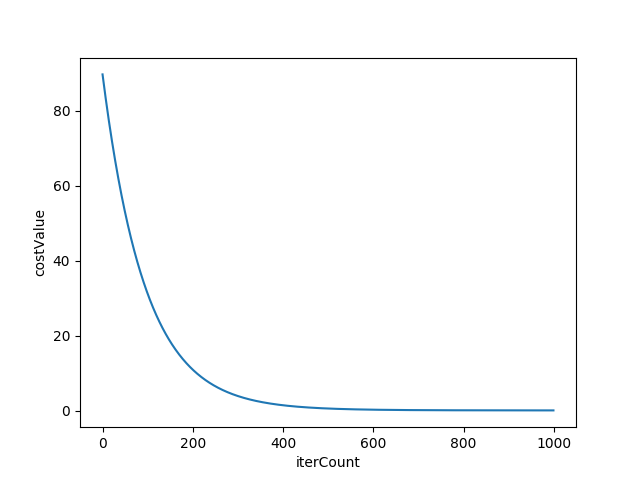
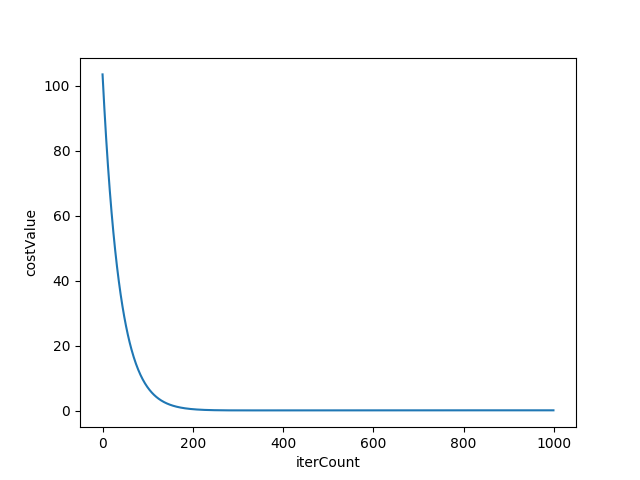
优化代码

diff --git a/gradient_decent/gd.py b/gradient_decent/gd.py
@@ -48,17 +48,16 @@ def gradientDecent(x_list, y_list):
     assert len(x_list) == len(y_list)
 
     for i in range(iterCount):
-        delta_a = 0.0
-        delta_b = 0.0
+        delta = 0.0
         costFunctionValue = 0.0
+        # 计算残差
         for j in range(pointCount):
-            delta_a += a * x_list[j] + b - y_list[j]
-            delta_b += a * x_list[j] + b - y_list[j]
+            delta += a * x_list[j] + b - y_list[j]
             costFunctionValue += (x_list[j] * a + b - y_list[j]) ** 2
         costFunctionValue = costFunctionValue / 2 / pointCount
         costDict[i] = costFunctionValue
-        delta_a = delta_a / pointCount * x_list[j]
-        delta_b = delta_b / pointCount
+        delta_a = delta / pointCount * x_list[j]
+        delta_b = delta / pointCount
         a -= delta_a * alpha
         b -= delta_b * alpha
 
